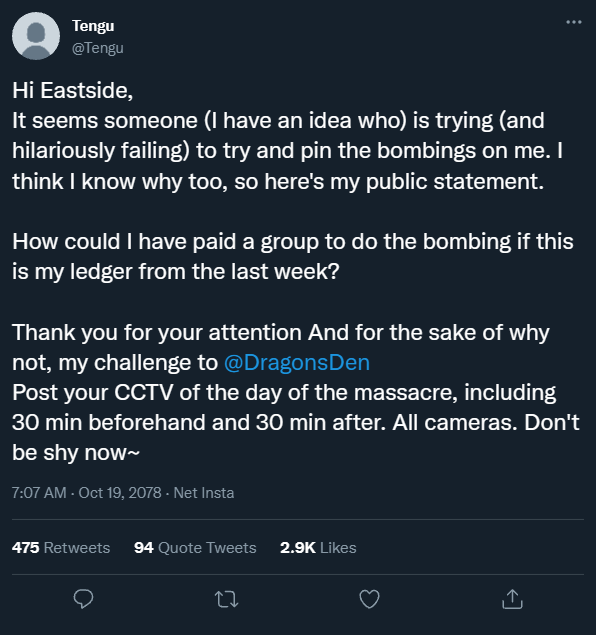
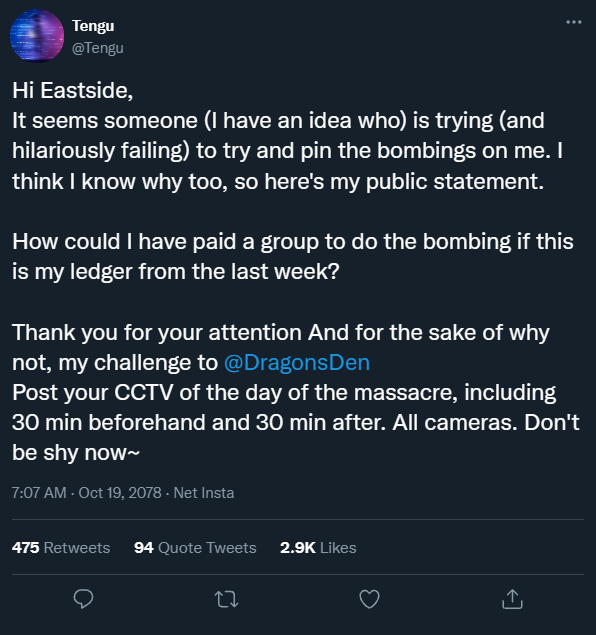
aesthetic update and rewrite

Changed region(s): [[0.0, 0.0, 0.1208, 0.1197]]

diff --git a/NCRP/10-18-26.html b/NCRP/10-18-26.html
@@ -6,6 +6,7 @@
         <link rel="preconnect" href="https://fonts.googleapis.com">
         <link rel="preconnect" href="https://fonts.gstatic.com" crossorigin>
         <link href="https://fonts.googleapis.com/css2?family=Geostar&display=swap" rel="stylesheet">
+        <link href="https://fonts.googleapis.com/css2?family=Roboto:ital,wght@0,100..900;1,100..900&display=swap" rel="stylesheet">
     </head>
     <body>
         <div class="centered">
@@ -13,60 +14,65 @@
         <img class="logo" src="./images/universal/ArchAngelLogo.png" alt="Unicorn with Halo">
         <div class="title">
         <h1 class="geostar-regular">ARCH ANGEL</h1></div>
-        <h3 class="date">10/14 - 10/21 2026 - </h3>
-        <div class="archive"><a href="archive.html">Archive</a></div></header>
+        <h3 class="date roboto-regular">10/14 - 10/21 2026 - </h3>
+        <div class="archive roboto-regular"><a href="archive.html">Archive</a></div></header>
         <hr class="rounded">
 
         <img class="main-media" src="images/10-18-26/NCPD-bombing-aura.png" alt="NCPD officers stand beside a minotuar in front of the smoking precinct">
-        <div class="caption">NCPD officers stand beside a minotuar in front of the smoking precinct - Source: Tengu</div>
+        <div class="caption roboto-regular">NCPD officers stand beside a minotuar in front of the smoking precinct - Source: Tengu</div>
         <div class="article">
-        <h1 class="article-title">Anonoymous Bombing at Precinct, NCPD on High Alert</h1>
-        <p class="article-body"><b>Oct. 18</b> - Around 6pm local time, Eastside was rocked with the sound of an explosion in the direction of the NCPD Eastside Precinct building. This was followed only thirty minutes later by another explosion.</p>
-<p class="article-body">Two improvised explosives were placed within the precinct building, one in the locker room, the other in an administrative space. The first explosion was unexpected, destroying the locker room. The other explosive was found by NCPD EOD. The EOD team isolated the bomb and enacted a controlled detonation.</p>
-<p class="article-body">The precinct took substantial damage to soft assets, including shattered windows.</p>
+        <h1 class="article-title roboto-regular">Anonoymous Bombing at Precinct, NCPD on High Alert</h1>
+        <p class="article-body roboto-regular"><b>Oct. 18</b> - Around 6pm local time, Eastside was rocked with the sound of an explosion in the direction of the NCPD Eastside Precinct building. This was followed only thirty minutes later by another explosion.</p>
+<p class="article-body roboto-regular roboto-regular">Two improvised explosives were placed within the precinct building, one in the locker room, the other in an administrative space. The first explosion was unexpected, destroying the locker room. The other explosive was found by NCPD EOD. The EOD team isolated the bomb and enacted a controlled detonation.</p>
+<p class="article-body roboto-regular">The precinct took substantial damage to soft assets, including shattered windows.</p>
 <img class="secondary-media" src="images/10-18-26/NCPD-precinct-damaged.png" alt="NCPD Precinct with shattered windows">
-<div class="caption">NCPD Precinct with shattered windows</div>
-<p class="article-body">At this time, no casualties have been reported.</p>
-<p class="article-body">Initial rumors claimed Lunar Veil was responsible. Tengu of the Lunar Veil clinic took to Insta, clearing the clinic, as well as challenging local business The Dragon’s Den:</p>
-<img class="secondary-media" src="images/10-18-26/TenguInsta10-19.png" alt="NCPD Precinct with shattered windows">
-<p class="article-body">Attached documents can be found <a href="https://discord.com/channels/1348601552083882108/1349499487147786390/1561727497580847248" target="_blank">here.</a></p>
-<p class="article-body">Jamison Hendrix, officer for NCPD Eastside, commented on his personal Insta to corroborate these claims, stating, “ I… have it at this current time, that in good authority I can confidently say to the public that the Lunar Veil has no involvement in the bombing that occurred at the PD yesterday. They did however assist the injured promptly acting in good faith.”</p>
-<p class="article-body">He went on to refuse to address the claims against The Dragon’s Den, but did not dispute any involvement formally. The full post can be found <a href="https://discord.com/channels/1348601552083882108/1349499487147786390/1561751085385912383" target="_blank">here.</a></p>
-<p class="article-body">User @fallenangel responded later that day, claiming these statements were rumors meant to cause drama. They also included that NCPD has received The Dragon’s Den security footage, per Tengu’s request. The full post can be found <a href="https://discord.com/channels/1348601552083882108/1349499487147786390/1561856872976228477" target="_blank">here.</a></p>
-<p class="article-body">After the bombings, NCPD showed their force, staffing the streets of Eastside with NCPD officers and a Militech Minotaur.</p>
-<p class="article-body">This is a developing story. Any information can be sent to @ArchAngel on insta, or directly to NCPD.</p>
+<div class="caption roboto-regular">NCPD Precinct with shattered windows</div>
+<p class="article-body roboto-regular">At this time, no casualties have been reported.</p>
+<p class="article-body roboto-regular">Initial rumors claimed Lunar Veil was responsible. Tengu of the Lunar Veil clinic took to Insta, clearing the clinic, as well as challenging local business The Dragon’s Den:</p>
+<img class="secondary-media" src="images/10-18-26/TenguInsta10-19.png" alt="Tweet">
+<p class="article-body roboto-regular">Attached documents can be found <a href="https://discord.com/channels/1348601552083882108/1349499487147786390/1561727497580847248" target="_blank">here.</a></p>
+<p class="article-body roboto-regular">Jamison Hendrix, officer for NCPD Eastside, commented on his personal Insta to corroborate these claims, stating, “ I… have it at this current time, that in good authority I can confidently say to the public that the Lunar Veil has no involvement in the bombing that occurred at the PD yesterday. They did however assist the injured promptly acting in good faith.”</p>
+<p class="article-body roboto-regular">He went on to refuse to address the claims against The Dragon’s Den, but did not dispute any involvement formally. The full post can be found <a href="https://discord.com/channels/1348601552083882108/1349499487147786390/1561751085385912383" target="_blank">here.</a></p>
+<p class="article-body roboto-regular">User @fallenangel responded later that day, claiming these statements were rumors meant to cause drama. They also included that NCPD has received The Dragon’s Den security footage, per Tengu’s request. The full post can be found <a href="https://discord.com/channels/1348601552083882108/1349499487147786390/1561856872976228477" target="_blank">here.</a></p>
+<p class="article-body roboto-regular">After the bombings, NCPD showed their force, staffing the streets of Eastside with NCPD officers and a Militech Minotaur.</p>
+<p class="article-body roboto-regular">This is a developing story. Any information can be sent to @ArchAngel on insta, or directly to NCPD.</p>
 
         
     
     </div> <!--/article-->
     
         <img class="main-media" src="images/10-18-26/GarageShooting.png" alt="NCPD officers stand in front of L & Z's Automotive">
-        <div class="caption">NCPD officers stand in front of L & Z's Automotive</div>
+        <div class="caption roboto-regular">NCPD officers stand in front of L & Z's Automotive</div>
         <div class="article">
-        <h1 class="article-title">Shooting at L & Z's Automotive, SK Security and NCPD Team Up</h1>
-        <p class="article-body"><b>Oct. 18</b> - Eastside's mainstreet lit up as shots rang off buildings. The intense gunfire came from L & Z's Automotive, a garage protected by SK Security. The conflict lasted several minutes.</p>
-        <p class="article-body">A group of men were first met in the garage asking about car parts. They were asked to come back later. The group was seen ordering from Jackson's Pizza. One member began an argument with a local merc about owed money, drawing the attention of NCPD.</p>
+        <h1 class="article-title roboto-regular">Shooting at L & Z's Automotive, SK Security and NCPD Team Up</h1>
+        <p class="article-body roboto-regular"><b>Oct. 18</b> - Eastside's mainstreet lit up as shots rang off buildings. The intense gunfire came from L & Z's Automotive, a garage protected by SK Security. The conflict lasted several minutes.</p>
+        <p class="article-body roboto-regular">A group of men were first met in the garage asking about car parts. They were asked to come back later. The group was seen ordering from Jackson's Pizza. One member began an argument with a local merc about owed money, drawing the attention of NCPD.</p>
         <img src="images/10-18-26/SuspectHeadshots.png" alt="Three headshots of regular looking humans with baseball caps.">
-        <div class="caption">Three of the men suspected to be involved in the shooting, now reported deceased.</div>
-        <p class="article-body">The incident was seen as resolved, only for conflict to arise again when the group returned to the garage. NCPD responded as SK Security operatives engaged the group. No footage of the encounter has been released at this time.</p>
-        <p class="article-body">None of the suspects were seen being escorted from the premises. It is assumed all were killed in the conflict at this time.</p>
-        <p class="article-body">Larry, Co-Owner of the buisness, was critically injured during the conflict. He has been reported stable. ArchAngel is wishing for a speedy recovery.</p>
-        <p class="article-body">No organization has claimed responsibility for this conflict, and it is assumed to be a buisness dispute that resulted in an attempted robbery.</p>
+        <div class="caption roboto-regular">Three of the men suspected to be involved in the shooting, now reported deceased.</div>
+        <p class="article-body roboto-regular">The incident was seen as resolved, only for conflict to arise again when the group returned to the garage. NCPD responded as SK Security operatives engaged the group. No footage of the encounter has been released at this time.</p>
+        <p class="article-body roboto-regular">None of the suspects were seen being escorted from the premises. It is assumed all were killed in the conflict at this time.</p>
+        <p class="article-body roboto-regular">Larry, Co-Owner of the buisness, was critically injured during the conflict. He has been reported stable. ArchAngel is wishing for a speedy recovery.</p>
+        <p class="article-body roboto-regular">No organization has claimed responsibility for this conflict, and it is assumed to be a buisness dispute that resulted in an attempted robbery.</p>
             </div> <!--/article-->
         
         <div class="article">
-            <h1 class="article-title">Other Stories</h1>
-            <h2 class="subarticle-title">Maelstrom Ripperdoc Dead Outside Afterlife</h2>
-            <p class="article-body"><b>Oct. 19</b> - Reports indicate a spider-like Maelstrom Ripperdoc was arrested by NCPD outside the Afterlife. While NCPD escorted her out of the area, they were engaged by Maelstrom operatives as well as bystanders.</p>
-            <p class="article-body">During the conflict, the Ripperdoc was killed. No other casualties have been reported. NCPD has not made an official statement at this time.</p>
+            <h1 class="article-title roboto-regular">Other Stories</h1>
+            <h2 class="subarticle-title roboto-regular">Maelstrom Ripperdoc Dead Outside Afterlife</h2>
+            <p class="article-body roboto-regular"><b>Oct. 19</b> - Reports indicate a spider-like Maelstrom Ripperdoc was arrested by NCPD outside the Afterlife. While NCPD escorted her out of the area, they were engaged by Maelstrom operatives as well as bystanders.</p>
+            <p class="article-body roboto-regular">During the conflict, an officer was killed and Maelstrom successfully extracted the Ripperdoc. NCPD has not made an official statement, but sources are saying this Ripperdoc was connected to the Lunar Veil Massarcre and is now at large. Any information on her whereabouts should be reported immediately.</p>
             <br>
-            <h2 class="subarticle-title">Shadow Ripper Still at Large, More Victims Reported</h2>
-            <p class="article-body"><b>Oct. 19</b> - More residents of Night City have woken up to find themselves fitted with Feline Ears, Tails, and other non-human elements.</p>
-            <p class="article-body">There is a lack of information regarding this individual, and no official statements have been made. Any information may be sent to @ArchAngel on Insta.</p>
+            <h2 class="subarticle-title roboto-regular">Shadow Ripper Still at Large, More Victims Reported</h2>
+            <p class="article-body roboto-regular"><b>Oct. 19</b> - More residents of Night City have woken up to find themselves fitted with Feline Ears, Tails, and other non-human elements.</p>
+            <p class="article-body roboto-regular">There is a lack of information regarding this individual, and no official statements have been made. Any information may be sent to @ArchAngel on Insta.</p>
         
         </div> <!--/article-->
 
     </div> <!--/centered-->
+
+    <footer>
+        <p class="footer-text roboto-regular">Copyright 2078 ArchAngel. For questions, comments, concerns, contact @ArchAngel on Insta</p>
+        <p class="ooc-disclaimer">Disclaimer: Not all information is accurate to events in character. This is intentional. If your character has an issue with it, contact Angel in character. For all other concerns, contact the_athena on Discord.</p>
+    </footer>
     
     </body>
 

diff --git a/NCRP/archangelstyle.css b/NCRP/archangelstyle.css
@@ -14,6 +14,7 @@ h1.geostar-regular {
     background-color: #B796AC;
     width: 60%;
     margin-left: 20%;
+    padding-bottom: 30px;
     
 }
 .geostar-regular {
@@ -26,6 +27,7 @@ h1.geostar-regular {
 }
 .date {
     display: inline-block;
+    font-size: 30px;
 }
 .archive {
     text-align: end;
@@ -63,4 +65,31 @@ p.article-body {
 img.secondary-media {
     width: 60%;
     margin-left: 20%;
+}
+.roboto-regular {
+  font-family: "Roboto", sans-serif;
+  font-optical-sizing: auto;
+  font-weight: 300;
+  font-style: normal;
+  font-variation-settings:
+    "wdth" 100;
+}
+
+.subarticle-title {
+    font-weight: 400;
+    font-size: 35px;
+}
+
+footer {
+    background-color: #96778c;
+    padding: 3%;
+}
+
+.footer-text {
+    font-weight: 200;
+    font-size: 20px;
+}
+.ooc-disclaimer {
+    color: rgb(82, 78, 78);
+    font-size: 14px;
 }
